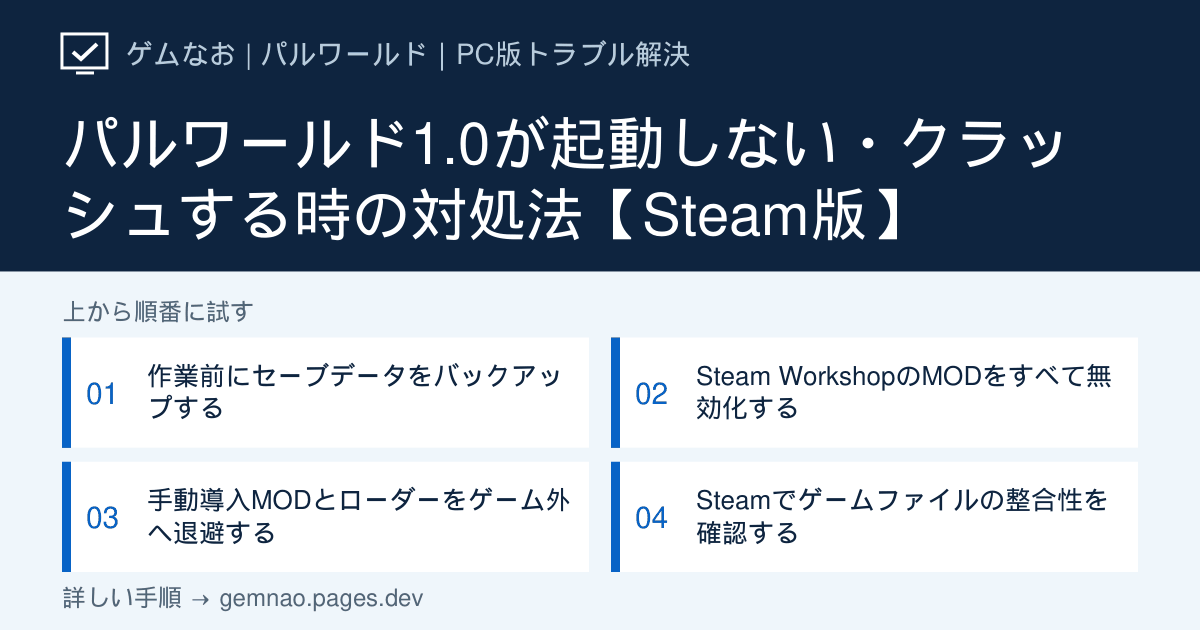
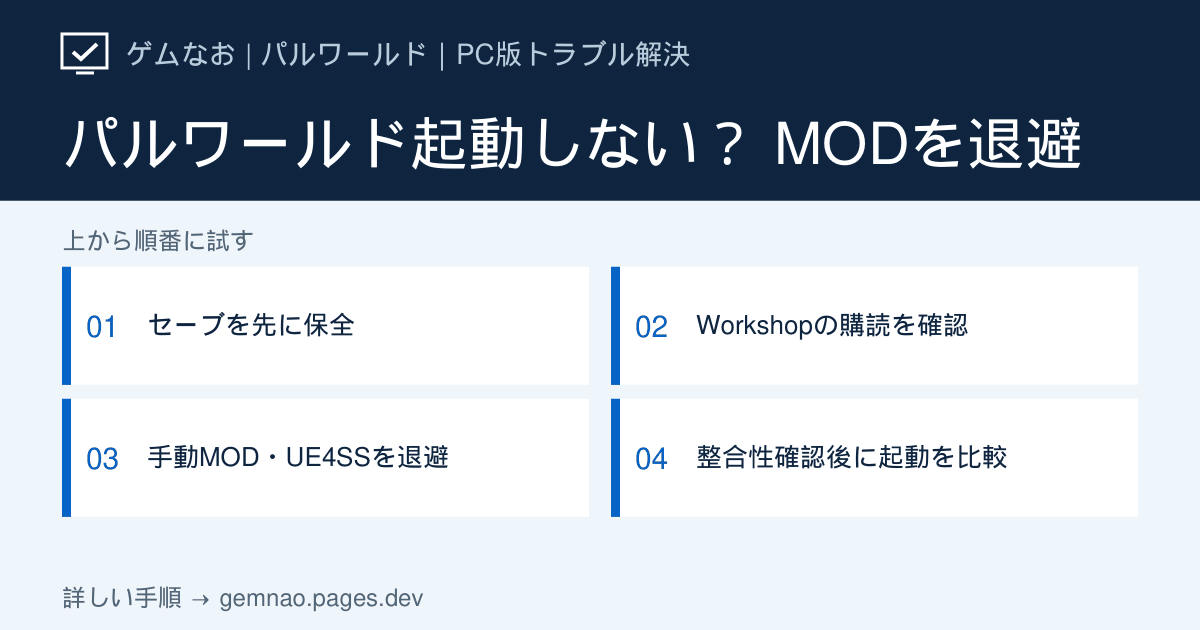
Rewrite Palworld launch guide with mod location and recovery steps

diff --git a/lib/game-articles.ts b/lib/game-articles.ts
@@ -60,6 +60,9 @@ export type GameArticle = {
   related: string[];
   seoTitle: string;
   metaDescription: string;
+  /** Compact wording for the social preview image; page title stays unchanged. */
+  ogTitle?: string;
+  ogSteps?: string[];
 };
 
 export const categoryLabels: Record<ArticleCategory, string> = {
@@ -505,118 +508,225 @@ const originalGameArticles: GameArticle[] = [
     title: 'パルワールド1.0が起動しない・クラッシュする時の対処法【Steam版】',
     shortTitle: '1.0で起動しない・クラッシュ',
     symptom:
-      '1.0更新後に起動直後で落ちる、ワールド読み込み中にクラッシュする、古いMODを無効化しても直らない場合の確認手順です。',
+      'Steam版パルワールドが1.0更新後に起動しない、タイトル画面で落ちる、既存ワールドだけ読み込めない場合の切り分けです。Workshop・手動導入・UE4SSを別々に確認します。',
     conclusion:
-      '最初にセーブを保全し、Steam Workshopと手動導入を含む古いMODを完全に退避してから、ゲームファイルの整合性を確認します。',
+      'セーブをコピーした後、Workshopの購読を解除し、ゲームフォルダに残った手動MOD・ローダーをゲーム外へ退避します。Steamで整合性を確認し、MODなしで起動できるか試してください。整合性確認だけでは、手動で追加したファイルが残る場合があります。',
     description:
-      '公式告知では、1.0で基盤システムが大きく変わり、古いMODがクラッシュやセーブ破損の原因になり得ると案内されています。MOD管理画面でOFFにするだけでなく、導入元ごとに残存ファイルを確認します。',
-    checkedAt: '2026-09-09',
+      'Pocketpairは、古いMODをオフにしただけでは残存ファイルやローダーが読み込まれ得ると案内しています。以下はSteam版クライアント用です。専用サーバーのPalServerフォルダには適用しません。ファイルの配置は導入方法によって異なるため、まず導入元とファイル名を照合します。',
+    checkedAt: '2026-09-27',
+    targetVersion:
+      'Steam版・Windows・パルワールド1.0系（専用サーバーは対象外）',
+    causes: [
+      'Workshopの購読が残り、次の起動でMODが再配置されている',
+      'Paks内の手動MODやWin64内の旧UE4SS・DLLローダーが残っている',
+      '本体ファイルの不足・破損、またはMODに依存した既存セーブ',
+    ],
+    quickFacts: [
+      {
+        label: 'Steam版セーブの場所',
+        value: String.raw`%LOCALAPPDATA%\Pal\Saved\SaveGames`,
+        copy: true,
+      },
+      {
+        label: 'ゲームのインストール先',
+        value:
+          'Steamライブラリ→パルワールドを右クリック→管理→ローカルファイルを閲覧',
+      },
+      {
+        label: '手動導入を確認する場所',
+        value: String.raw`Pal\Content\Paks / Pal\Binaries\Win64（ゲームのインストール先から）`,
+      },
+      {
+        label: '公式Workshopの展開先',
+        value: String.raw`Mods\NativeMods\UE4SS / Pal\Content\Paks\LogicMods・~WorkshopMods`,
+      },
+    ],
+    diagnosis: [
+      {
+        symptom: 'WorkshopのMODを使っている／使っていた',
+        cause: 'ゲーム内で無効化しても、Steamの購読や配置済みファイルが残る',
+        stepId: 'remove-mods',
+      },
+      {
+        symptom: 'Nexusなどから手動でMODやUE4SSを入れた',
+        cause: 'Steamの整合性確認では追加ファイルを特定できない',
+        stepId: 'remove-remnants',
+      },
+      {
+        symptom: '整合性確認が「問題なし」でも起動しない',
+        cause: '追加ファイルが残っているか、MOD以外の問題',
+        stepId: 'check-verification-result',
+      },
+      {
+        symptom: 'タイトルは開くが、既存ワールドだけ落ちる',
+        cause: 'MOD依存データ、または既存セーブ固有の問題',
+        stepId: 'test-new-world',
+      },
+    ],
     symptoms: [
-      { label: '1.0更新後に落ちる', target: 'remove-mods' },
-      { label: 'MODを無効化しても直らない', target: 'remove-remnants' },
-      { label: '起動直後にクラッシュする', target: 'verify-files' },
+      { label: 'Workshop MODを使っている', target: 'remove-mods' },
+      { label: '手動MOD・UE4SSを入れた', target: 'remove-remnants' },
+      { label: '整合性確認後も落ちる', target: 'check-verification-result' },
       { label: 'ワールド読み込みで落ちる', target: 'test-new-world' },
     ],
     steps: [
       {
         id: 'backup-save',
-        title: '作業前にセーブデータをバックアップする',
-        summary: 'MOD削除や整合性確認の前に、現在のワールドを保全します。',
+        title: '作業前にSteam版のセーブを別の場所へコピーする',
+        summary:
+          'MODを外すと、MOD由来のアイテムを含む既存ワールドが読み込めなくなることがあります。',
+        time: '約3分',
+        risk: 'low',
         actions: [
-          'パルワールドとSteamを終了する',
-          String.raw`%LOCALAPPDATA%\Pal\Saved\SaveGamesを開く`,
-          'SaveGamesフォルダを別の場所へ丸ごとコピーする',
-          'バックアップに日付と「1.0起動確認前」と付ける',
+          'パルワールドを終了し、Steamもタスクトレイから終了する。Steam Cloudの同期が終わっていることを確認する',
+          String.raw`Windows＋Rを押し、%LOCALAPPDATA%\Pal\Saved\SaveGames を入力して開く`,
+          'SaveGamesフォルダ全体をゲーム・Steamのインストール先とは別の場所へコピーする。コピー先にワールドのフォルダとファイルがあることを確認する',
+          'コピー先に「Palworld_1.0_MOD退避前_日付」などの名前を付け、以降は元のセーブへ直接ファイルを上書きしない',
         ],
       },
       {
         id: 'remove-mods',
-        title: 'Steam WorkshopのMODをすべて無効化する',
-        summary: '公式のMod Management画面で有効なWorkshop MODを外します。',
+        title: 'ゲーム内のMOD管理とSteam Workshopの購読を確認する',
+        summary:
+          '「Mod Management」はSteamの設定画面ではなく、ゲームのタイトル画面にある項目です。起動できなければ購読確認から始めます。',
+        time: '約3〜10分',
+        risk: 'medium',
         actions: [
-          'SteamでパルワールドのMOD管理画面を開く',
-          '有効なWorkshop MODをすべて無効化する',
-          'Workshopの購読状況も確認する',
-          'ゲームを起動せず次の残存ファイル確認へ進む',
+          'タイトル画面を開ける場合は「オプション」→「Mod Management」で有効なMODをオフにする。開けない場合はこの操作を飛ばす',
+          'Steamのパルワールドのコミュニティハブから「ワークショップ」を開き、「あなたのファイル」→「サブスクライブしたアイテム」で購読中のMODを確認する（Steamの表示言語で名称が異なる）',
+          '購読中のパルワールド用MODは個別ページの「サブスクライブ中」を押して購読を解除する。再ダウンロードや再配置を防ぐため、次の手順までMODは再購読しない',
+          'Steamを終了し、次の手順でゲームフォルダに残ったファイルも確認する。購読解除だけで手動MODや配置済みのローダーは消えない',
         ],
       },
       {
         id: 'remove-remnants',
-        title: '手動導入MODとローダーをゲーム外へ退避する',
-        summary: '管理ツールでOFFにしても残るファイルを切り分けます。',
+        title: '手動MOD・UE4SS・Workshopの配置済みファイルを退避する',
+        summary:
+          'Steamが開いた「Palworld」フォルダを基準に、導入方法ごとに場所を見ます。見覚えのない本体ファイルを名前だけで削除しません。',
+        time: '約5〜15分',
+        risk: 'medium',
         actions: [
-          'Steamからパルワールドのローカルファイルを開く',
-          '手動で追加したMOD、UE4SS、外部ローダーの場所を確認する',
-          '削除せずゲームフォルダ外の退避用フォルダへ移す',
-          '導入元とファイル名を記録する',
+          'Steamライブラリでパルワールドを右クリック→「管理」→「ローカルファイルを閲覧」。開いたPalworldフォルダを基準にする。PalServerでは作業しない',
+          String.raw`手動の.pak／LogicModsは Pal\Content\Paks を開く。LogicModsや自分で作成したMOD用フォルダ、導入時に追加した.pakだけを、ゲームフォルダ外の「Palworld_MOD退避」へ移す`,
+          String.raw`手動導入のUE4SS／DLLローダーは Pal\Binaries\Win64 を開く。導入時の説明・ダウンロード記録と照合し、自分で追加したue4ssフォルダやローダーのDLLだけを退避する`,
+          String.raw`公式Workshopで展開された分は Mods\NativeMods\UE4SS・Mods\ManagedMods と Pal\Content\Paks\~WorkshopMods・LogicMods を確認する。購読解除後も残るMODファイルを、元の相対パスが分かる形でゲームフォルダ外へ退避する`,
+          '退避フォルダ内を「手動PAK」「UE4SS」「Workshop残存」などに分け、元のパスとMOD名をメモする。どれが追加ファイルか判別できなければ無理に選別せず、STEP 5のフォルダ単位の方法を使う',
         ],
-        note: '公式告知では、MODを管理画面で無効にするだけでは不十分な場合があると案内されています。',
+        note: 'Pal\\Content\\Paksにあるゲーム本体の.pakや、Win64にある本体のDLLを名前だけで選別しないでください。外部のMOD管理ツールを使った場合は、そのツールの導入履歴も確認します。',
       },
       {
         id: 'verify-files',
-        title: 'Steamでゲームファイルの整合性を確認する',
-        summary: '不足・破損・改変された本体ファイルをSteamに確認させます。',
+        title: 'Steamで整合性を確認して、MODなしで起動する',
+        summary:
+          '退避で不足した正規ファイルがあれば、Steamが再取得します。作業中はMODを戻しません。',
+        time: '約5分〜（再取得があると長くなる）',
+        risk: 'low',
         actions: [
-          'Steamライブラリでパルワールドを右クリックする',
-          '「プロパティ」→「インストール済みファイル」を開く',
-          '「ゲームファイルの整合性を確認」を実行する',
-          '完了後にPCを再起動する',
-          'MODを戻さずゲーム本体だけで起動する',
+          'Steamライブラリでパルワールドを右クリック→「プロパティ」→「インストール済みファイル」→「ゲームファイルの整合性を確認」を押す',
+          '確認と必要な再ダウンロードが完全に終わるまで待つ。再取得があったか、エラー表示が残るかを控える',
+          'Steamを再起動し、Workshopを再購読せず、退避したMODも戻さない状態でパルワールドを起動する',
+          'タイトルまで開くか、既存ワールドの読み込み時にだけ落ちるかを分けて記録する',
         ],
+      },
+      {
+        id: 'check-verification-result',
+        title: '整合性確認と起動結果から次の操作を選ぶ',
+        summary:
+          '「再取得された＝MODが原因」とは限りません。整合性確認の結果と、実際の起動結果を組み合わせます。',
+        time: '約2分（フォルダ単位の退避は別途）',
+        risk: 'medium',
+        actions: [
+          '再取得後にMODなしで起動できた：本体の不足か、退避したMODのどちらかが原因候補。直後に全MODを戻さず、STEP 7で1個ずつ確かめる',
+          '「問題なし」なのに起動しない：整合性確認は手動で追加したファイルがない証明にはならない。STEP 3のPaks・Win64・Modsを再点検する',
+          String.raw`どれが追加ファイルか見分けられない場合は、ゲームとSteamを閉じ、Pal\Binaries\Win64・Pal\Content\Paks・Mods の各フォルダを、容量に余裕があるゲーム外の場所へ「元のパスが分かる名前」で丸ごと移す。その後、STEP 4の整合性確認を再実行して正規ファイルを再取得する`,
+          'フォルダ単位の退避後もタイトルに到達しない：MODだけを原因と決めず、エラー表示、Windowsの信頼性モニターの記録、GPUドライバーの状態を控え、記事末尾にあるPC共通の起動トラブルガイドへ進む',
+        ],
+        note: 'Paksには大容量のゲーム本体も含まれます。フォルダごと退避すると大きな空き容量と再ダウンロードが必要です。まずは特定できる追加ファイルだけを退避してください。',
       },
       {
         id: 'test-new-world',
-        title: '新規ワールドで本体と既存セーブを切り分ける',
+        title: 'タイトルまで開くなら、一時的な新規ワールドで比較する',
         summary:
-          'タイトル画面まで起動できる場合に、既存ワールド固有の問題か確認します。',
+          '既存ワールド固有の問題とゲーム本体の問題を分けます。バックアップが取れている場合だけ実施します。',
+        time: '約5分',
+        risk: 'medium',
         actions: [
-          'バックアップがあることを再確認する',
-          'MODなしで一時的な新規ワールドを作成する',
-          '新規ワールドが読み込めるか確認する',
-          '新規だけ動く場合は既存セーブへ無理な上書きをせず公式サポート情報を確認する',
+          '別の場所へコピーしたSaveGamesバックアップが存在することを確認する',
+          'MODを入れ直さないまま、一時的な新規ワールドを作り、読み込みまで進むか確認する',
+          '新規ワールドだけ正常なら既存ワールド／MOD依存データが原因候補。既存セーブを上書き・削除せず、使用していたMODの対応状況とセーブの記事を確認する',
+          '新規ワールドも落ちるならセーブ固有と決めつけず、エラー文・発生時点を記録してPC共通のクラッシュ・強制終了ガイドを確認する',
+        ],
+      },
+      {
+        id: 'restore-mods',
+        title: '直った後、必要なMODだけを1個ずつ戻す',
+        summary:
+          '最新版への対応が配布者から確認できたMODだけを個別に試します。',
+        time: 'MODごとに約5分〜',
+        risk: 'medium',
+        actions: [
+          'MODなしでタイトルと対象ワールドが正常に開く状態を確認し、セーブのバックアップをもう一度残す',
+          '配布者が現在のパルワールド1.0系に対応すると案内しているMODを1個だけ購読または再導入する',
+          '起動・ワールド読み込みを試し、問題がなければ次のMODを1個追加する。再発したら直前に加えたMODを外して再確認する',
+          '旧版のUE4SSや退避したフォルダ全体をまとめて元へ戻さない',
         ],
       },
     ],
+    avoid: [
+      'MODが入ったままの既存セーブを、バックアップなしで開いて保存しない',
+      'SaveGames内のセーブデータを「MODファイル」として削除しない',
+      '整合性確認で「問題なし」と出ただけで、追加MODファイルも消えたと判断しない',
+    ],
     cautions: [
-      'MODに依存する内容を含むセーブは、MODを外すと正常に読み込めない場合があります。バックアップを残してください。',
-      '配布元不明の修復ツールや実行ファイルを使用しないでください。',
+      'ゲーム本体のフォルダとセーブのSaveGamesは別です。MOD退避・整合性確認中もセーブのバックアップを残してください。',
+      'フォルダ単位の退避後はSteamが本体を再取得するまで起動しません。作業前に空き容量と通信量を確認してください。',
     ],
     faqs: [
       {
-        question: 'パルワールド1.0で起動直後にクラッシュする時は？',
+        question: 'MOD管理画面はSteamのどこにありますか？',
         answer:
-          'セーブをバックアップし、Workshopと手動導入のMODをすべて退避してからSteamの整合性確認とPC再起動を行います。',
+          '「Mod Management」はパルワールドを起動した後のタイトル画面にある「オプション」内です。ゲームが起動しないなら開けないので、Steamのワークショップで購読を解除してからゲームフォルダの残存ファイルを確認してください。',
       },
       {
-        question: 'MODをOFFにしたのに起動しないのはなぜですか？',
+        question: 'Steamの整合性確認で「問題なし」ならMODは残っていませんか？',
         answer:
-          'MODローダーや手動導入ファイルがゲームフォルダに残っている可能性があります。管理画面だけでなく導入元ごとの残存ファイルを確認してください。',
+          'いいえ。整合性確認は主にSteam管理下の本体ファイルを確認します。手動で置いた.pak、UE4SS、外部DLLローダーなどは残り得ます。Paks・Win64・Modsの各場所を導入履歴と照合してください。',
       },
       {
         question: '新規ワールドは起動するのに既存ワールドだけ落ちます',
         answer:
-          '既存セーブ固有またはMOD依存の可能性があります。バックアップへ上書きせず、使用していたMODの1.0対応と公式の最新告知を確認してください。',
+          '旧MODに依存したアイテムやデータ、既存セーブ固有の問題が疑われます。新規ワールドのセーブで既存データを上書きせず、退避前のバックアップと使用MODの1.0系への対応状況を確認してください。',
       },
     ],
     sources: [
       {
-        label: 'Pocketpair公式告知（1.0とMODの注意）',
-        url: 'https://steamcommunity.com/games/1623730/announcements/',
+        label: 'Pocketpair公式：1.0と古いMODに関する注意',
+        url: 'https://steamcommunity.com/games/1623730/announcements/detail/686383649529010210',
       },
       {
-        label: 'Steamサポート（ゲームが起動しない場合）',
-        url: 'https://help.steampowered.com/ja/faqs/view/5814-D9A3-BE42-62DF',
+        label: 'Pocketpair公式：MOD利用ガイドライン・削除対象',
+        url: 'https://guideline.palworldgame.com/palworld-mod-guideline',
+      },
+      {
+        label: 'Pocketpair公式：MOD管理と導入先（開発者向け資料）',
+        url: 'https://github.com/pocketpairjp/PalworldModUploader/blob/main/PalworldModUploader/docs/en/04-Tech.md',
+      },
+      {
+        label: 'Steamサポート：ゲームファイルの整合性確認',
+        url: 'https://help.steampowered.com/ja/faqs/view/0C48-FCBD-DA71-93EB',
       },
     ],
-    related: [
-      'save-data',
-      'system-requirements',
-      'dedicated-server-settings',
-      'dedicated-server-backup',
-    ],
+    related: ['save-data', 'system-requirements'],
     seoTitle: 'パルワールド1.0が起動しない・クラッシュする時の対処法【Steam】',
     metaDescription:
-      'パルワールド1.0が起動しない、更新後にクラッシュする時の対処法。古いMODの完全退避、Steam整合性確認、セーブ保全、新規ワールドでの切り分けを解説します。',
+      'パルワールド1.0が起動しない・クラッシュする時の対処法。Steam Workshopの購読解除、手動.pak・UE4SSの場所と退避、整合性確認後の結果別判断まで解説。',
+    ogTitle: 'パルワールド起動しない？ MODを退避',
+    ogSteps: [
+      'セーブを先に保全',
+      'Workshopの購読を確認',
+      '手動MOD・UE4SSを退避',
+      '整合性確認後に起動を比較',
+    ],
   },
   {
     gameSlug: palworld.slug,

diff --git a/lib/og-cards.ts b/lib/og-cards.ts
@@ -39,9 +39,11 @@ export function ogCardSpecs(): OgCardSpec[] {
       ...articles.map((article) => ({
         path: `/games/${game.slug}/${article.slug}`,
         eyebrow: `${game.shortTitle}｜PC版トラブル解決`,
-        title: article.title,
+        title: article.ogTitle || article.title,
         itemsLabel: '上から順番に試す',
-        items: article.steps.slice(0, 4).map((step) => step.title),
+        items:
+          article.ogSteps ||
+          article.steps.slice(0, 4).map((step) => step.title),
       })),
     ];
   });
@@ -54,7 +56,9 @@ export function ogCardSpecs(): OgCardSpec[] {
       eyebrow: 'PCゲーム共通トラブル',
       title: guide.title,
       itemsLabel:
-        guide.slug === 'directx-error' ? 'エラー名から対処を選ぶ' : '上から順番に試す',
+        guide.slug === 'directx-error'
+          ? 'エラー名から対処を選ぶ'
+          : '上から順番に試す',
       items: guide.steps.slice(0, 4).map((step) => step.title),
     }));
   const discordCards = discordArticles

diff --git a/lib/og-image-manifest.ts b/lib/og-image-manifest.ts
@@ -69,7 +69,7 @@ export const ogImageManifest: Record<string, string> = {
   "/games/palworld/dedicated-server-backup": "e52228b8",
   "/games/palworld/dedicated-server-port": "47029ddc",
   "/games/palworld/dedicated-server-settings": "574fb782",
-  "/games/palworld/not-launching": "e14c4303",
+  "/games/palworld/not-launching": "266d1cc9",
   "/games/palworld/save-data": "ad53b5a4",
   "/games/palworld/system-requirements": "61cda543",
   "/games/star-wars-zero-company": "86c17651",
